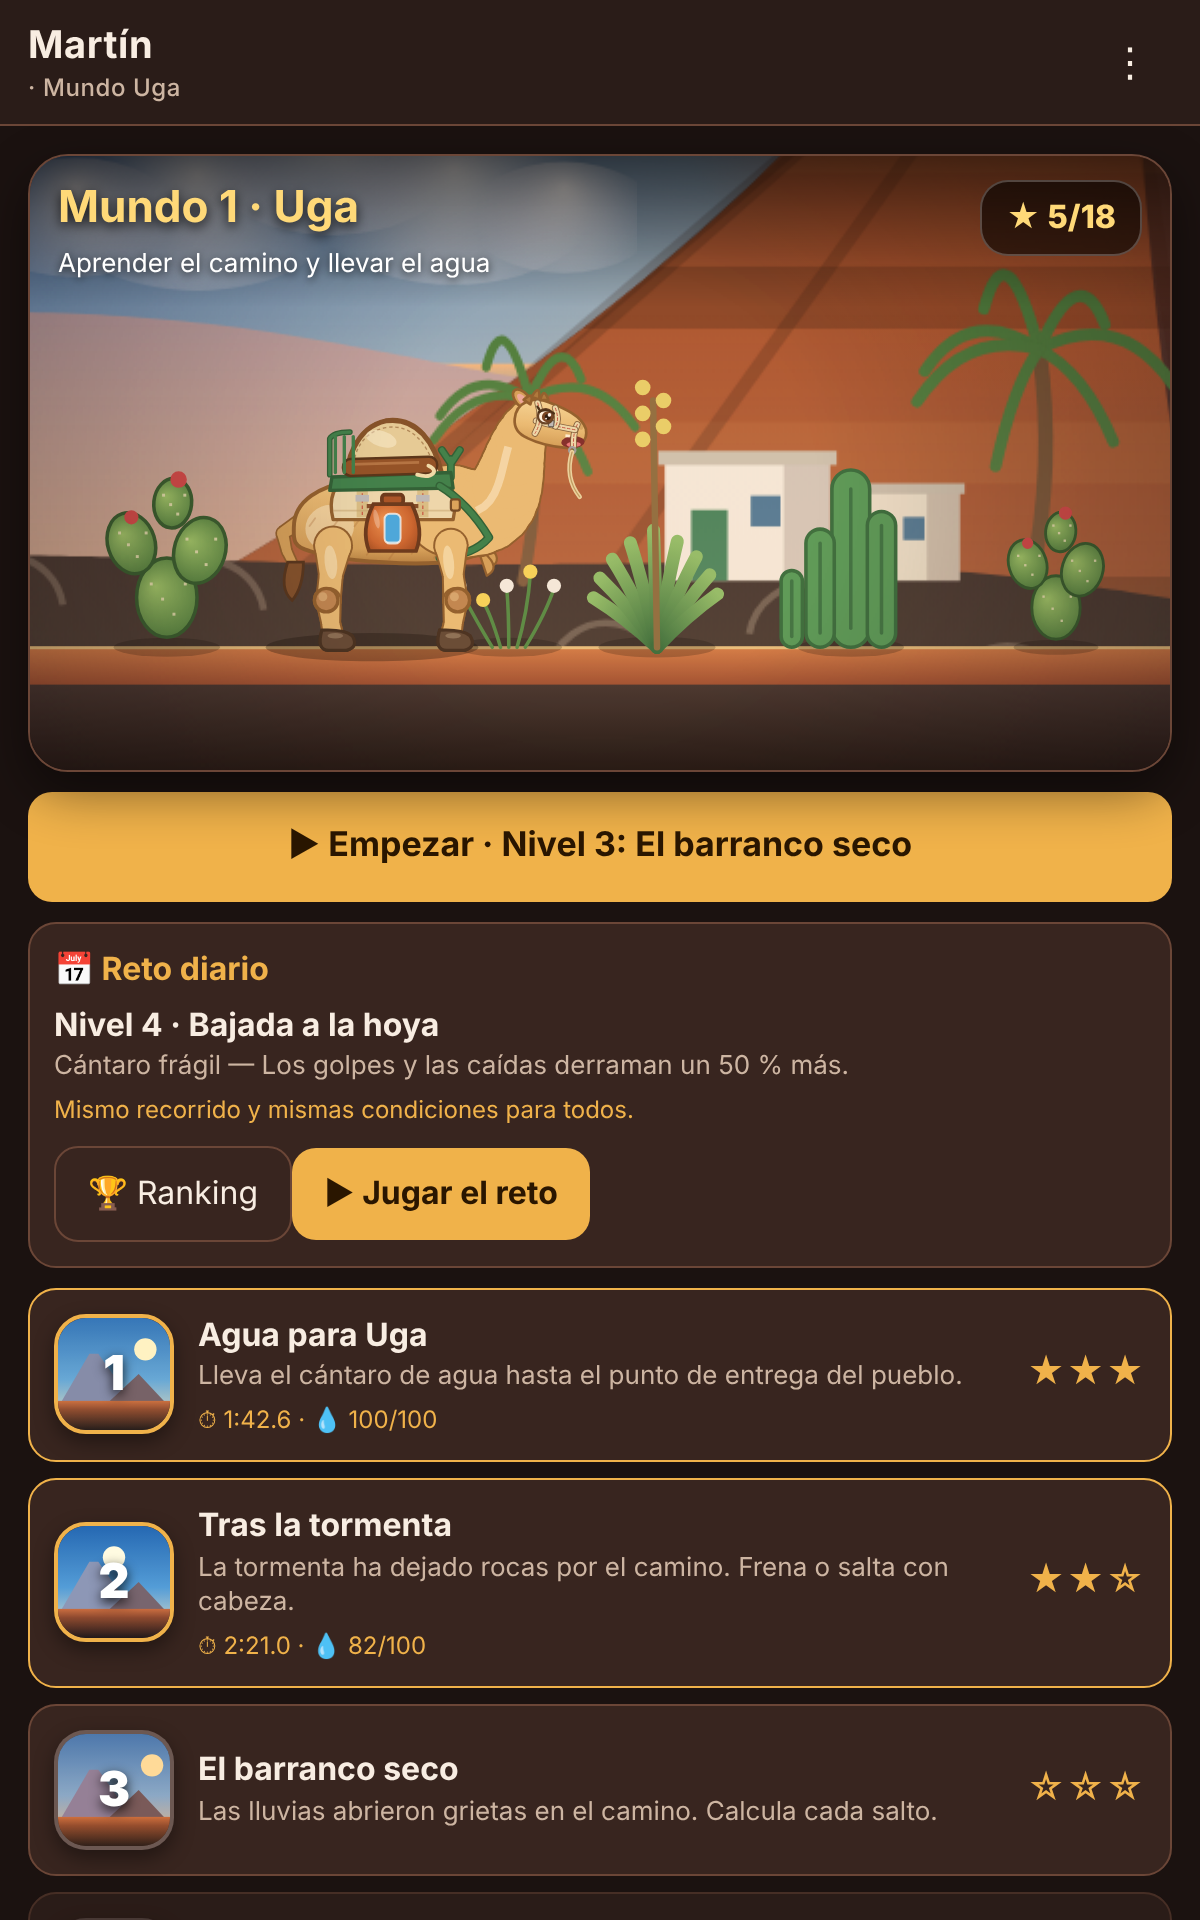
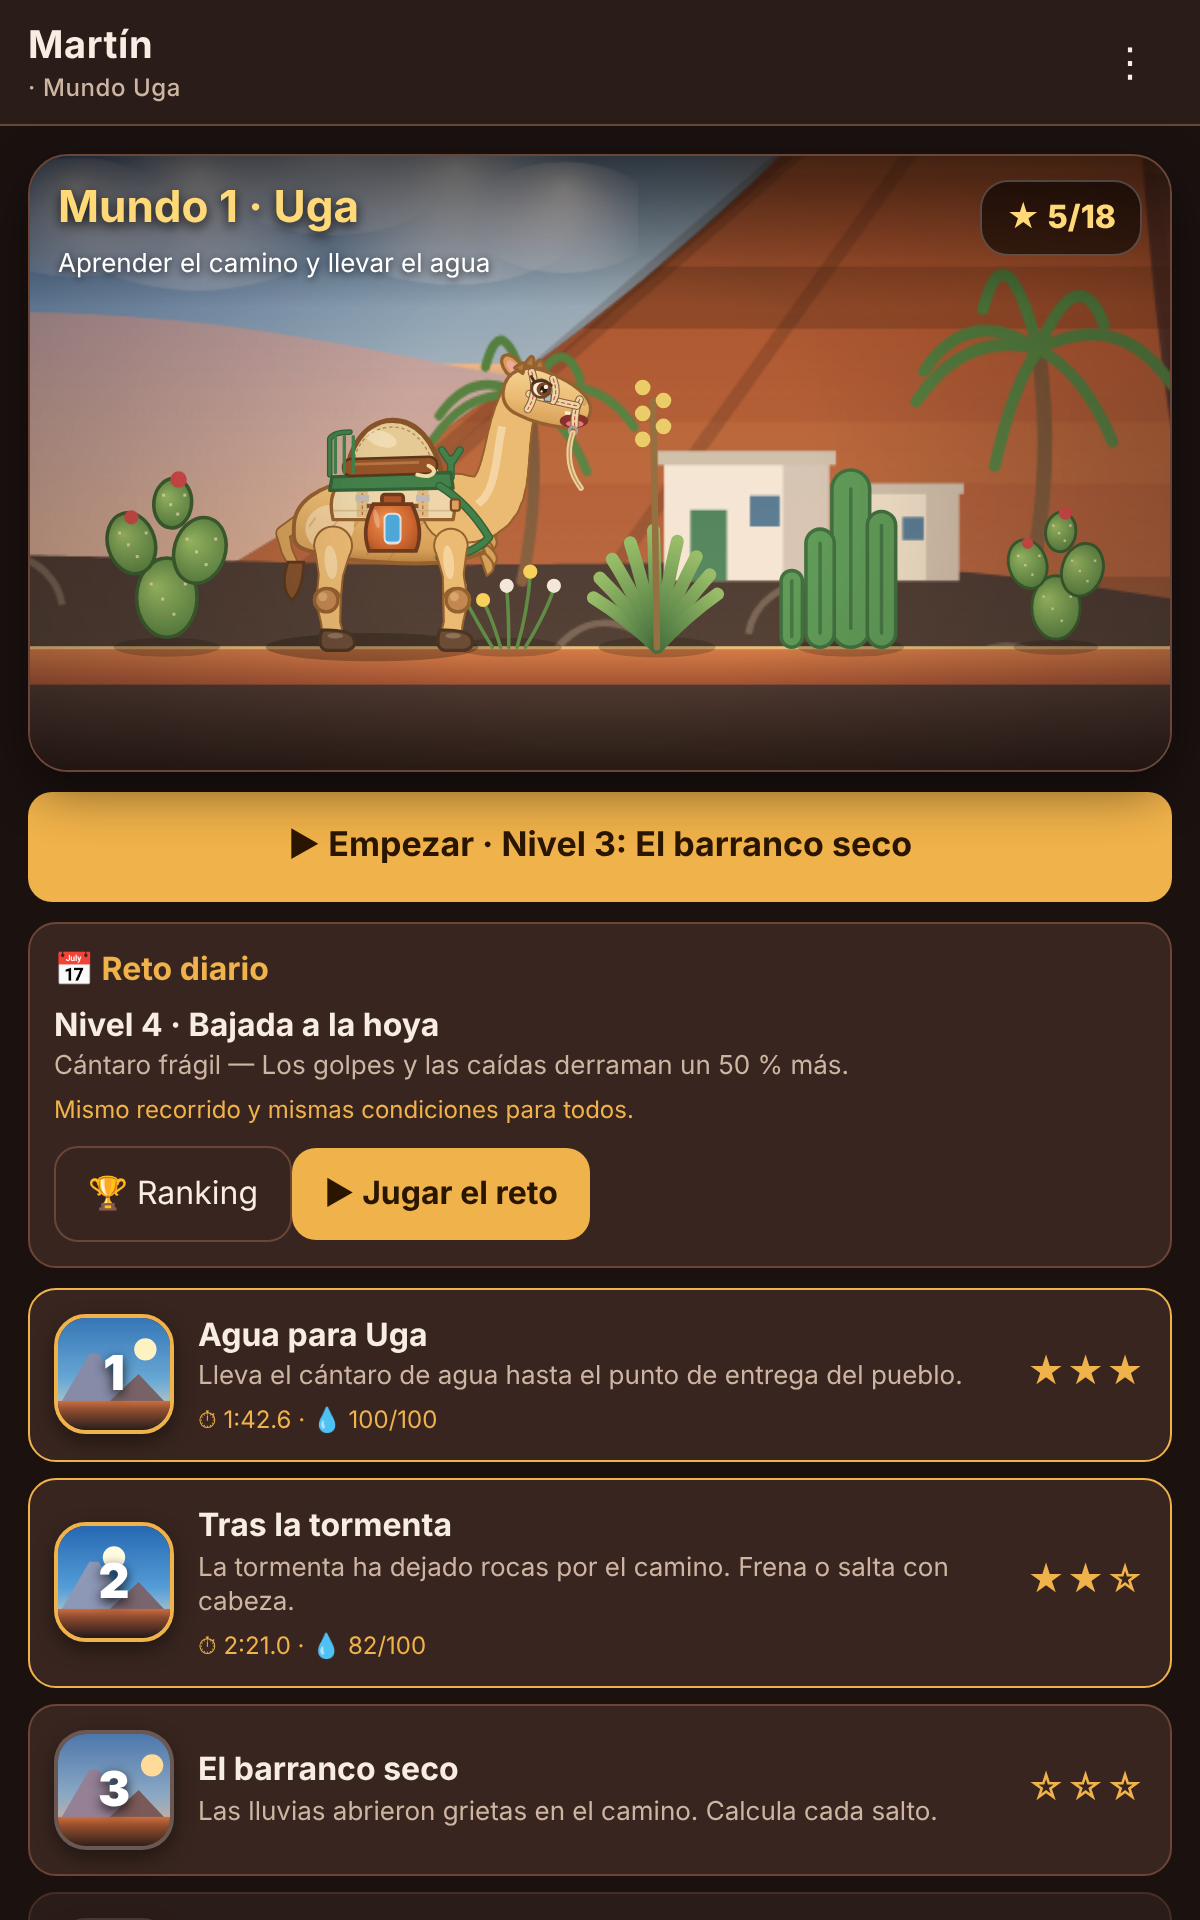
1.7.2: cuello más largo y fino y cabeza más grande, como en la ilustración
Claude-Session: https://claude.ai/code/session_01H2Jf8v1MHtV6zTpVoU4WWj

Changed region(s): [[0.37, 0.1875, 0.4933, 0.3125], [0.185, 0.2812, 0.2158, 0.3125]]

diff --git a/docs/app/dibujo.js b/docs/app/dibujo.js
@@ -210,13 +210,13 @@
     for (let i = 0; i < 5; i++) { const x = 0.8 + (i % 2) * 0.03, y = 1.1 - i * 0.07 + B; ctx.beginPath(); ctx.moveTo(x, y); ctx.quadraticCurveTo(x + 0.15, y - 0.12 + Math.sin(T * 2 + i) * 0.01, x + 0.02, y - 0.2); ctx.lineTo(x - 0.04, y - 0.02); ctx.closePath(); ctx.fill(); ctx.stroke(); }
     // cuello alto y grueso en S
     const sway = Math.sin(ph * 0.5) * (corre ? 0.04 : 0.01) + Math.sin(T * 1.7) * 0.012, tip = anim === 'salta' ? 0.06 : anim === 'cae' ? -0.1 : 0;
-    const N = [[0.5, 1.2 + B], [1.14, 1.04 + B], [0.96, 1.7 + B], [1.2, 2.0 + B + tip]];
+    const N = [[0.55, 1.22 + B], [1.12, 1.12 + B], [0.9, 1.84 + B], [1.14, 2.24 + B + tip]];
     const cub = q => { const m = 1 - q; return [m * m * m * N[0][0] + 3 * m * m * q * N[1][0] + 3 * m * q * q * N[2][0] + q * q * q * N[3][0], m * m * m * N[0][1] + 3 * m * m * q * N[1][1] + 3 * m * q * q * N[2][1] + q * q * q * N[3][1]]; };
-    const pts = [], ws = []; for (let i = 0; i <= 14; i++) { const q = i / 14; pts.push(cub(q)); ws.push(0.8 - q * 0.42 + Math.sin(q * Math.PI) * 0.03); }
+    const pts = [], ws = []; for (let i = 0; i <= 14; i++) { const q = i / 14; pts.push(cub(q)); ws.push(0.6 - q * 0.28 - Math.sin(q * Math.PI) * 0.04); }
     conico(ctx, pts, ws, PEL.claro, PEL.borde, 0.035);
     ctx.strokeStyle = 'rgba(255,248,225,.5)'; ctx.lineWidth = 0.07; ctx.beginPath(); for (let i = 3; i <= 11; i++) { const [x, y] = pts[i]; i === 3 ? ctx.moveTo(x - 0.08, y) : ctx.lineTo(x - 0.08, y); } ctx.stroke();
     // cabeza
-    ctx.save(); ctx.translate(pts[14][0] + 0.06, pts[14][1] + 0.0); ctx.rotate(-0.1 - tip * 0.8 + sway); ctx.scale(0.8, 0.8); cabeza(ctx, T, st); ctx.restore();
+    ctx.save(); ctx.translate(pts[14][0] + 0.06, pts[14][1] + 0.0); ctx.rotate(-0.12 - tip * 0.8 + sway); ctx.scale(0.98, 0.98); cabeza(ctx, T, st); ctx.restore();
     ctx.beginPath(); ctx.moveTo(-0.42, 1.5 + B); ctx.bezierCurveTo(-0.44, 1.6 + B, -0.36, 1.94 + B, -0.08, 2.0 + B); ctx.bezierCurveTo(0.2, 2.04 + B, 0.36, 1.8 + B, 0.42, 1.52 + B); ctx.closePath();
     ctx.fillStyle = '#e4cf9c'; ctx.fill(); ctx.strokeStyle = '#7a4a24'; ctx.lineWidth = 0.045; ctx.stroke();
     ctx.strokeStyle = 'rgba(122,74,36,.55)'; ctx.lineWidth = 0.012; ctx.setLineDash([0.03, 0.025]); ctx.beginPath(); ctx.moveTo(-0.36, 1.56 + B); ctx.bezierCurveTo(-0.38, 1.7 + B, -0.3, 1.9 + B, -0.08, 1.94 + B); ctx.bezierCurveTo(0.16, 1.98 + B, 0.3, 1.78 + B, 0.36, 1.56 + B); ctx.stroke(); ctx.setLineDash([]);

diff --git a/www/dibujo.js b/www/dibujo.js
@@ -210,13 +210,13 @@
     for (let i = 0; i < 5; i++) { const x = 0.8 + (i % 2) * 0.03, y = 1.1 - i * 0.07 + B; ctx.beginPath(); ctx.moveTo(x, y); ctx.quadraticCurveTo(x + 0.15, y - 0.12 + Math.sin(T * 2 + i) * 0.01, x + 0.02, y - 0.2); ctx.lineTo(x - 0.04, y - 0.02); ctx.closePath(); ctx.fill(); ctx.stroke(); }
     // cuello alto y grueso en S
     const sway = Math.sin(ph * 0.5) * (corre ? 0.04 : 0.01) + Math.sin(T * 1.7) * 0.012, tip = anim === 'salta' ? 0.06 : anim === 'cae' ? -0.1 : 0;
-    const N = [[0.5, 1.2 + B], [1.14, 1.04 + B], [0.96, 1.7 + B], [1.2, 2.0 + B + tip]];
+    const N = [[0.55, 1.22 + B], [1.12, 1.12 + B], [0.9, 1.84 + B], [1.14, 2.24 + B + tip]];
     const cub = q => { const m = 1 - q; return [m * m * m * N[0][0] + 3 * m * m * q * N[1][0] + 3 * m * q * q * N[2][0] + q * q * q * N[3][0], m * m * m * N[0][1] + 3 * m * m * q * N[1][1] + 3 * m * q * q * N[2][1] + q * q * q * N[3][1]]; };
-    const pts = [], ws = []; for (let i = 0; i <= 14; i++) { const q = i / 14; pts.push(cub(q)); ws.push(0.8 - q * 0.42 + Math.sin(q * Math.PI) * 0.03); }
+    const pts = [], ws = []; for (let i = 0; i <= 14; i++) { const q = i / 14; pts.push(cub(q)); ws.push(0.6 - q * 0.28 - Math.sin(q * Math.PI) * 0.04); }
     conico(ctx, pts, ws, PEL.claro, PEL.borde, 0.035);
     ctx.strokeStyle = 'rgba(255,248,225,.5)'; ctx.lineWidth = 0.07; ctx.beginPath(); for (let i = 3; i <= 11; i++) { const [x, y] = pts[i]; i === 3 ? ctx.moveTo(x - 0.08, y) : ctx.lineTo(x - 0.08, y); } ctx.stroke();
     // cabeza
-    ctx.save(); ctx.translate(pts[14][0] + 0.06, pts[14][1] + 0.0); ctx.rotate(-0.1 - tip * 0.8 + sway); ctx.scale(0.8, 0.8); cabeza(ctx, T, st); ctx.restore();
+    ctx.save(); ctx.translate(pts[14][0] + 0.06, pts[14][1] + 0.0); ctx.rotate(-0.12 - tip * 0.8 + sway); ctx.scale(0.98, 0.98); cabeza(ctx, T, st); ctx.restore();
     ctx.beginPath(); ctx.moveTo(-0.42, 1.5 + B); ctx.bezierCurveTo(-0.44, 1.6 + B, -0.36, 1.94 + B, -0.08, 2.0 + B); ctx.bezierCurveTo(0.2, 2.04 + B, 0.36, 1.8 + B, 0.42, 1.52 + B); ctx.closePath();
     ctx.fillStyle = '#e4cf9c'; ctx.fill(); ctx.strokeStyle = '#7a4a24'; ctx.lineWidth = 0.045; ctx.stroke();
     ctx.strokeStyle = 'rgba(122,74,36,.55)'; ctx.lineWidth = 0.012; ctx.setLineDash([0.03, 0.025]); ctx.beginPath(); ctx.moveTo(-0.36, 1.56 + B); ctx.bezierCurveTo(-0.38, 1.7 + B, -0.3, 1.9 + B, -0.08, 1.94 + B); ctx.bezierCurveTo(0.16, 1.98 + B, 0.3, 1.78 + B, 0.36, 1.56 + B); ctx.stroke(); ctx.setLineDash([]);

diff --git a/docs/app/sw.js b/docs/app/sw.js
@@ -1,7 +1,7 @@
 // Service worker: deja la versión web disponible sin conexión.
 // En la app Android no hace falta (los archivos ya van dentro del APK) y podría servir
 // una versión antigua tras actualizar, así que allí se da de baja solo.
-const CACHE = 'martin-v1.7.1';
+const CACHE = 'martin-v1.7.2';
 const ASSETS = ['./', 'index.html', 'martin.js', 'niveles.js', 'juego.js', 'dibujo.js', 'manifest.webmanifest', 'icons/icon-192.png', 'icons/icon-512.png', 'icons/icon-maskable-512.png', 'icons/apple-touch-icon.png', 'i18n-en.js', 'i18n-fr.js', 'i18n-de.js', 'i18n-it.js', 'idioma.js', 'masjuegos.js', 'audio-suave.js', 'turno.js', 'contador.js', 'invitacion.js', 'publicas.js', 'juegos/ajedrez.png', 'juegos/chinchon.png', 'juegos/pumba.png', 'juegos/damas.png', 'juegos/parchis.png', 'juegos/poker.png', 'juegos/uno.png', 'juegos/martin.png'];
 const NATIVE = self.location.hostname === 'localhost' && self.location.protocol === 'https:';
 

diff --git a/www/sw.js b/www/sw.js
@@ -1,7 +1,7 @@
 // Service worker: deja la versión web disponible sin conexión.
 // En la app Android no hace falta (los archivos ya van dentro del APK) y podría servir
 // una versión antigua tras actualizar, así que allí se da de baja solo.
-const CACHE = 'martin-v1.7.1';
+const CACHE = 'martin-v1.7.2';
 const ASSETS = ['./', 'index.html', 'martin.js', 'niveles.js', 'juego.js', 'dibujo.js', 'manifest.webmanifest', 'icons/icon-192.png', 'icons/icon-512.png', 'icons/icon-maskable-512.png', 'icons/apple-touch-icon.png', 'i18n-en.js', 'i18n-fr.js', 'i18n-de.js', 'i18n-it.js', 'idioma.js', 'masjuegos.js', 'audio-suave.js', 'turno.js', 'contador.js', 'invitacion.js', 'publicas.js', 'juegos/ajedrez.png', 'juegos/chinchon.png', 'juegos/pumba.png', 'juegos/damas.png', 'juegos/parchis.png', 'juegos/poker.png', 'juegos/uno.png', 'juegos/martin.png'];
 const NATIVE = self.location.hostname === 'localhost' && self.location.protocol === 'https:';
 

diff --git a/docs/app/index.html b/docs/app/index.html
@@ -406,7 +406,7 @@ function openThemes() {
   AvisoTurno.enlazar();
 }
 
-const APP_VERSION = '1.7.1';
+const APP_VERSION = '1.7.2';
 const REPO = 'csuarezsm/Martin';
 const MAX_ARCHIVE = 500;
 const uid = () => Math.random().toString(36).slice(2, 10);

diff --git a/www/index.html b/www/index.html
@@ -406,7 +406,7 @@ function openThemes() {
   AvisoTurno.enlazar();
 }
 
-const APP_VERSION = '1.7.1';
+const APP_VERSION = '1.7.2';
 const REPO = 'csuarezsm/Martin';
 const MAX_ARCHIVE = 500;
 const uid = () => Math.random().toString(36).slice(2, 10);

diff --git a/README.md b/README.md
@@ -2,7 +2,7 @@
 
 Un camello canario joven de Uga lleva el agua por los caminos que dejó la tormenta: lava, rocas, huecos y bajadas. **6 niveles de plataformas** con tres estrellas cada uno, a veces con dos caminos (uno rápido y arriesgado, otro lento y seguro), y un **reto diario** igual para todos con ranking.
 Para Android e iPhone. Gratis, sin anuncios y sin cuentas. App Capacitor + web (`www/`). Todo se guarda en el móvil; solo el reto diario usa el servidor de juegos (nombre y pulsaciones, para comprobar el tiempo).
-Paquete: `com.itcanarias.martin` · versión 1.7.1
+Paquete: `com.itcanarias.martin` · versión 1.7.2
 
 **iPhone y navegadores**: la misma app se publica como versión web instalable en https://csuarezsm.github.io/Martin/app/ (GitHub Pages, carpeta `docs/app`, copia de `www/`). En Safari: Compartir → «Añadir a pantalla de inicio». Tras cambiar `www/`, ejecuta `npm run web`.
 
